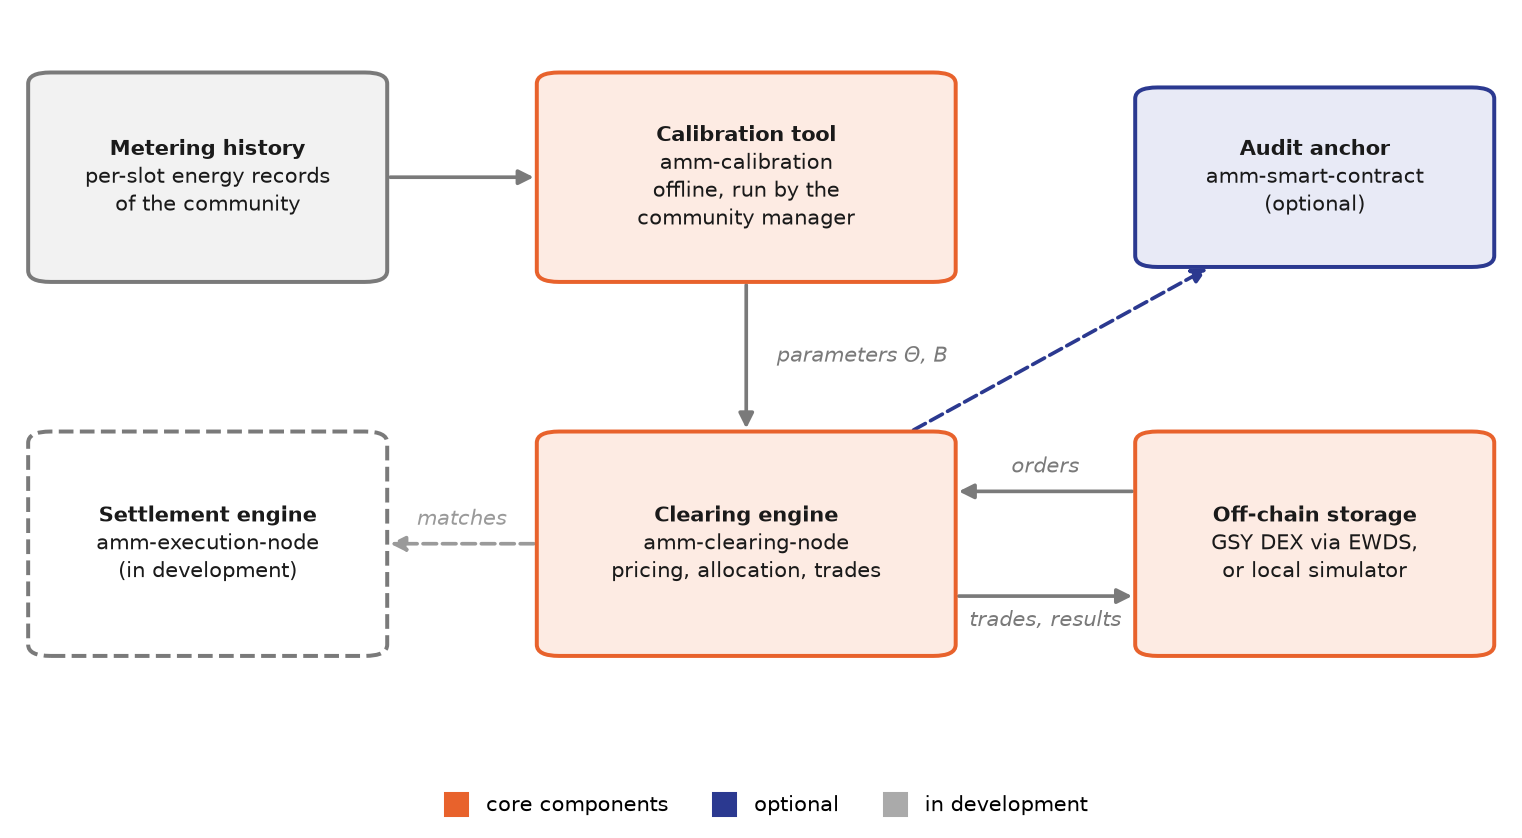
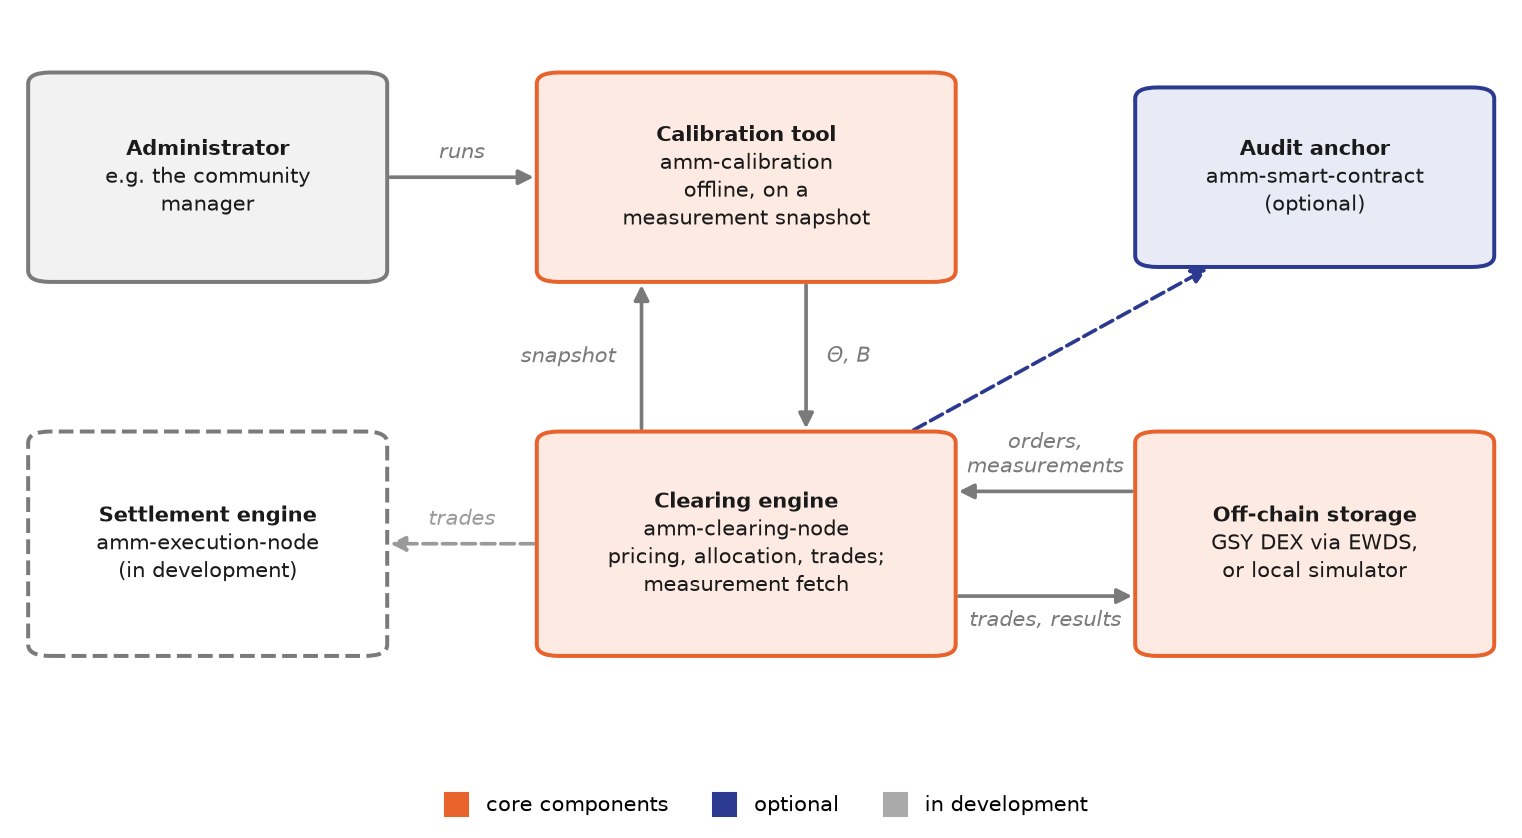
docs: EWDS-centred architecture figure, governance-neutral legend, calibration data path (#73)
- New architecture.png (replaces context.png in the README and the
  integration page): the EWDS as the interface between the services, AMMBA
  inside the GSY DEX spot market next to the GSY DEX execution and
  matching engines, and calibration run by the community's administrator.
- governance.png: legend names the community manager or other
  administrator and the members acting through their governance system.
- components.png: the clearing engine hands trades (not matches) to the
  settlement engine; the calibration data path is shown (orders and
  measurements from the off-chain storage, the clearing engine's
  measurement fetch writes the snapshot the calibration tool reads); the
  administrator runs the calibration.
- The documented regeneration command pins Python 3.13; make_figures.py
  needs 3.10+ and the bare command picked up an older interpreter.

All figures regenerated with the documented command; pricing, pool and
kpis are byte-identical to main.

Closes #70

diff --git a/docs/assets/figures/make_figures.py b/docs/assets/figures/make_figures.py
@@ -2,7 +2,7 @@
 
 Regenerate from the repository root:
 
-    uv run --no-project --with matplotlib --with numpy python docs/assets/figures/make_figures.py
+    uv run --no-project --python 3.13 --with matplotlib --with numpy python docs/assets/figures/make_figures.py
 
 Diagrams are drawn on a unit square that fills the whole figure, and nothing is
 clipped at its edges. After drawing, every diagram is checked: box texts must
@@ -243,67 +243,104 @@ def legend(ax, entries, y=-0.02):
     )
 
 
-# ── Context: AMMBA among the matching mechanisms of the GSY DEX ──────────
-def fig_context(path, ammba_note="(this repository)"):
-    d = Diagram(6.8, 3.5)
+# ── Architecture: AMMBA in the GSY DEX, with the EWDS as the interface ───
+def fig_architecture(path, ammba_note="(this repository)"):
+    d = Diagram(6.8, 5.0)
+    # Services and actors above the data spine.
+    d.box(0.01, 0.81, 0.19, 0.15, "Community members", ["households,", "prosumers"])
+    d.box(
+        0.25,
+        0.81,
+        0.19,
+        0.15,
+        "Forecasting service",
+        ["forecasts and", "trading preferences"],
+        edge=GREY,
+        fill=LIGHT_GREY,
+    )
+    d.box(0.49, 0.81, 0.19, 0.15, "Grid operator", ["retail price, feed-in", "tariff, grid fees"])
+    d.box(
+        0.74,
+        0.81,
+        0.25,
+        0.15,
+        "Post-trade services",
+        ["billing and payment,", "analytics, user interfaces"],
+    )
     d.box(
         0.01,
-        0.66,
-        0.28,
-        0.28,
-        "Community participants",
-        ["households and prosumers,", "or their energy", "management systems"],
-    )
-    d.box(
-        0.36,
-        0.66,
-        0.28,
-        0.28,
-        "GSY DEX off-chain storage",
-        ["orders, markets,", "measurements, trades"],
-    )
-    d.box(
-        0.71,
-        0.66,
-        0.28,
-        0.28,
-        "Energy Web Digital Spine",
-        ["secure data exchange", "between platform services"],
+        0.645,
+        0.98,
+        0.095,
+        "Energy Web Digital Spine (EWDS)",
+        "authenticated exchange of orders, tariffs, trades and clearing results between the services",
         edge=TEAL,
         fill=LIGHT_TEAL,
+        fs=6.8,
     )
-    d.frame(0.40, 0.03, 0.59, 0.50, "matching mechanisms, selected per community and market")
+    # GSY DEX spot market below the spine.
+    d.frame(0.01, 0.185, 0.98, 0.395, " ")
+    d.note((0.02, 0.555), "GSY DEX spot market", ha="left", fs=6.8)
     d.box(
-        0.42,
-        0.07,
-        0.265,
-        0.33,
-        ["GSY DEX", "matching engine"],
-        ["order-book mechanisms:", "pay-as-bid, pay-as-clear"],
+        0.03,
+        0.25,
+        0.53,
+        0.24,
+        ["AMMBA: AMM-based batch auction", ammba_note],
+        [
+            "collects the orders of each 15-minute slot in one batch,",
+            "prices the batch from its supply-to-demand ratio,",
+            "allocates the traded energy pro rata through the pool",
+        ],
+        edge=ORANGE,
+        fill=LIGHT_ORANGE,
+        fs=7.0,
     )
     d.box(
-        0.705,
-        0.07,
-        0.265,
+        0.68,
+        0.36,
+        0.29,
+        0.15,
+        ["GSY DEX", "Execution Engine"],
+        ["verifies delivery,", "settles on-chain"],
+    )
+    d.box(
+        0.68,
+        0.21,
+        0.29,
+        0.10,
+        "GSY DEX matching engine",
+        ["pay-as-bid, pay-as-clear"],
+        edge=GREY,
+        fill="white",
+        dashed=True,
+        fs=6.6,
+    )
+    # Calibration below the market.
+    d.box(0.03, 0.015, 0.20, 0.12, "Community manager", ["or another designated", "administrator"])
+    d.box(
         0.33,
-        "AMMBA",
-        ["AMM batch clearing", ammba_note],
+        0.015,
+        0.23,
+        0.12,
+        "Calibration tool",
+        [r"$\Theta$ and $B$ from the", "metering history"],
         edge=ORANGE,
         fill=LIGHT_ORANGE,
     )
-    d.box(
-        0.01,
-        0.09,
-        0.28,
-        0.29,
-        "Settlement and execution",
-        ["on-chain verification", "and settlement of matches"],
-    )
-    d.arrow((0.29, 0.80), (0.36, 0.80), label="orders", offset=(0, 9))
-    d.arrow((0.64, 0.80), (0.71, 0.80), style="<|-|>")
-    d.arrow((0.85, 0.66), (0.85, 0.53), style="<|-|>")
-    d.arrow((0.40, 0.235), (0.29, 0.235), label="matches", offset=(0, 9))
-    d.arrow((0.20, 0.38), (0.40, 0.66), dashed=True, label="settled trades", offset=(-30, 4))
+    # Flows.
+    d.arrow((0.20, 0.885), (0.25, 0.885), label="data", offset=(0, 8))
+    d.arrow((0.345, 0.81), (0.345, 0.74), label="orders", offset=(20, 0))
+    d.arrow((0.345, 0.645), (0.345, 0.49), label="orders", offset=(20, 0))
+    d.arrow((0.585, 0.81), (0.585, 0.74), label="tariffs", offset=(20, 0))
+    d.arrow((0.50, 0.645), (0.50, 0.49), label="price band", offset=(28, 0))
+    d.arrow((0.56, 0.435), (0.68, 0.435), label="trades,", offset=(0, 16))
+    d.note((0.62, 0.435), "clearing result", offset=(0, 8), fs=6.8, background=True)
+    d.arrow((0.825, 0.31), (0.825, 0.36), dashed=True, color="#9A9A9A")
+    d.arrow((0.865, 0.51), (0.865, 0.645), label="settled trades", lpos=0.78, offset=(-36, 0))
+    d.arrow((0.865, 0.74), (0.865, 0.81))
+    d.arrow((0.23, 0.075), (0.33, 0.075), label="runs", offset=(0, 8))
+    d.arrow((0.445, 0.135), (0.445, 0.25), label=r"$\Theta$, $B$", offset=(14, 0))
     d.save(path)
 
 
@@ -484,8 +521,8 @@ def fig_governance(path):
     legend(
         d.ax,
         [
-            ("community manager", BLUE),
-            ("community members (assembly or DAO)", ORANGE),
+            ("community manager or other administrator", BLUE),
+            ("community members, through their governance system", ORANGE),
             ("platform (no discretion)", TEAL),
         ],
     )
@@ -496,7 +533,7 @@ def fig_governance(path):
 COMPONENT_TEXT = {
     "storage": ["GSY DEX via EWDS,", "or local simulator"],
     "settlement": ["amm-execution-node", "(in development)"],
-    "matches": "matches",
+    "matches": "trades",
     "legend": ("core components", "optional", "in development"),
 }
 
@@ -509,8 +546,8 @@ def fig_components(path, text=None):
         0.64,
         0.24,
         0.28,
-        "Metering history",
-        ["per-slot energy records", "of the community"],
+        "Administrator",
+        ["e.g. the community", "manager"],
         edge=GREY,
         fill=LIGHT_GREY,
     )
@@ -520,7 +557,7 @@ def fig_components(path, text=None):
         0.28,
         0.28,
         "Calibration tool",
-        ["amm-calibration", "offline, run by the", "community manager"],
+        ["amm-calibration", "offline, on a", "measurement snapshot"],
         edge=ORANGE,
         fill=LIGHT_ORANGE,
     )
@@ -540,7 +577,7 @@ def fig_components(path, text=None):
         0.28,
         0.30,
         "Clearing engine",
-        ["amm-clearing-node", "pricing, allocation, trades"],
+        ["amm-clearing-node", "pricing, allocation, trades;", "measurement fetch"],
         edge=ORANGE,
         fill=LIGHT_ORANGE,
     )
@@ -565,9 +602,11 @@ def fig_components(path, text=None):
         fill="white",
         dashed=True,
     )
-    d.arrow((0.25, 0.78), (0.35, 0.78))
-    d.arrow((0.49, 0.64), (0.49, 0.44), label=r"parameters $\Theta$, $B$", offset=(38, 0))
-    d.arrow((0.75, 0.36), (0.63, 0.36), label="orders", offset=(0, 8))
+    d.arrow((0.25, 0.78), (0.35, 0.78), label="runs", offset=(0, 8))
+    d.arrow((0.42, 0.44), (0.42, 0.64), label="snapshot", offset=(-24, 0))
+    d.arrow((0.53, 0.64), (0.53, 0.44), label=r"$\Theta$, $B$", offset=(14, 0))
+    d.arrow((0.75, 0.36), (0.63, 0.36), label="orders,", offset=(0, 16))
+    d.note((0.69, 0.36), "measurements", offset=(0, 8), fs=6.8, background=True)
     d.arrow((0.63, 0.22), (0.75, 0.22), label="trades, results", offset=(0, -8))
     d.arrow((0.60, 0.44), (0.80, 0.66), dashed=True, color=BLUE)
     d.arrow((0.35, 0.29), (0.25, 0.29), dashed=True, color="#9A9A9A", label=text["matches"])
@@ -613,7 +652,7 @@ def fig_kpis(path):
 
 if __name__ == "__main__":
     out = Path(__file__).parent
-    fig_context(out / "context.png")
+    fig_architecture(out / "architecture.png")
     fig_pricing(out / "pricing.png")
     fig_pool(out / "pool.png")
     fig_governance(out / "governance.png")

diff --git a/docs/integration/index.md b/docs/integration/index.md
@@ -4,11 +4,14 @@ AMMBA is integrated into the INTELLIGENT platform as an alternative matching
 mechanism of the GSY Decentralised Energy Exchange (GSY DEX), alongside the
 exchange's order-book mechanisms.
 
-![AMMBA in the INTELLIGENT architecture](../assets/figures/context.png)
+![AMMBA in the INTELLIGENT architecture](../assets/figures/architecture.png)
 
-_Simplified view: participants' orders reach the GSY DEX off-chain storage,
-matching mechanisms access it through the Energy Web Digital Spine (EWDS), and
-matches are settled on-chain. The community selects the mechanism per market._
+_Simplified view: the Energy Web Digital Spine (EWDS) is the interface between
+the services. Orders and tariffs reach AMMBA through it; AMMBA hands its trades
+and clearing results to the GSY DEX execution engine for on-chain settlement,
+and settled trades flow back to the post-trade services. The calibration tool,
+run by the community's administrator, supplies $\Theta$ and $B$. The community
+selects the matching mechanism per market._
 
 ## Principles
 

diff --git a/README.md b/README.md
@@ -69,7 +69,7 @@ comparison with order-book mechanisms.
 
 ## Architecture
 
-![AMMBA in the INTELLIGENT architecture](docs/assets/figures/context.png)
+![AMMBA in the INTELLIGENT architecture](docs/assets/figures/architecture.png)
 
 | Component                                    | Stack                    | Role                                                                                                                                                                                                                 |
 | -------------------------------------------- | ------------------------ | -------------------------------------------------------------------------------------------------------------------------------------------------------------------------------------------------------------------- |

diff --git a/CONTRIBUTING.md b/CONTRIBUTING.md
@@ -105,7 +105,7 @@ When a change alters documented behaviour, update the affected pages in the
 same pull request. Formulas use `$…$` and `$$…$$`, which render on the site
 and on GitHub; links from `docs/` to files elsewhere in the repository use
 absolute GitHub URLs. Regenerate the figures with
-`uv run --no-project --with matplotlib --with numpy python docs/assets/figures/make_figures.py`
+`uv run --no-project --python 3.13 --with matplotlib --with numpy python docs/assets/figures/make_figures.py`
 instead of editing the images; the script fails if a label overflows its box or
 covers another element.
 

diff --git a/docs/project/contributing.md b/docs/project/contributing.md
@@ -32,7 +32,7 @@ Conventions:
   the same folder; regenerate them rather than editing the images:
 
 ```bash
-uv run --no-project --with matplotlib --with numpy python docs/assets/figures/make_figures.py
+uv run --no-project --python 3.13 --with matplotlib --with numpy python docs/assets/figures/make_figures.py
 ```
 
 When a change alters behaviour that the documentation describes, update the
